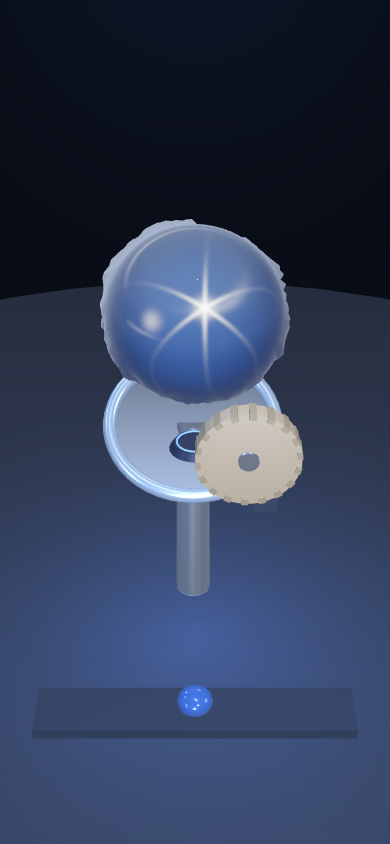
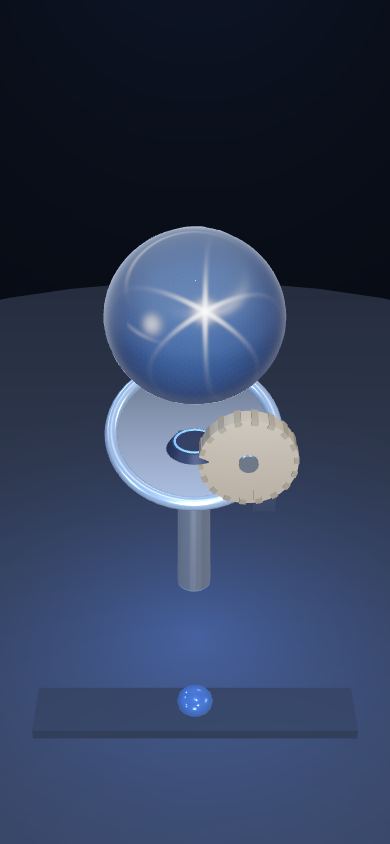
星を起こす v3.1: 原石期の光帯を「石の内部に沈んだ淡い帯」まで落とす
- 原石期の帯の輝度倍率 mix(2.2,1.0,form) → mix(1.4,1.0,form)
- 中心からの減衰 exp(-hl*2.6) → exp(-hl*3.4)（原石期）
  帯のピークは殻より明るいまま、帯の周りに殻の青と凸凹が残るようにした。
  align > 0.9 で六条の気配が出るのは維持。
- playtest: 窓開けの途中で偶然良い向きになっていた場合に備え、指で一度
  しっかり転がして向きを外してから探し直す。これで band-{1,2,3}.png が
  align 0.5 / 0.75 / 0.9 付近で確実に撮れる。

Claude-Session: https://claude.ai/code/session_01B3bfqVPKegmXqEE6uLVgzw

diff --git a/src/stoneMaterial.js b/src/stoneMaterial.js
@@ -219,7 +219,7 @@ void main(){
   }
   // 中心から離れるほど細く淡く（六条が「石の中で光る」ように減衰させる）
   // 原石期の帯は中心から遠くまで伸びる（＝一本の帯として石を横切る）
-  star *= exp(-hl * mix(2.6, 7.0, smoothness * form));
+  star *= exp(-hl * mix(3.4, 7.0, smoothness * form));
   star *= 0.55 + 0.75 * uSilkDensity;
   // 研磨前は弱まるが、帯としてはっきり見える強さは残す
   star *= mix(0.55, 1.0, clamp(smoothness + win * 0.75, 0.0, 1.0));
@@ -234,7 +234,7 @@ void main(){
              * smoothstep(0.05, 0.45, ndvS);
 
   vec3 starCol = mix(vec3(0.66, 0.80, 1.0), vec3(0.90, 0.95, 1.0), form);
-  col += starCol * star * uStarBoost * mix(2.2, 1.0, form);
+  col += starCol * star * uStarBoost * mix(1.4, 1.0, form);
   col += mix(starCol, vec3(1.0), 0.6) * core * uStarBoost * 0.55;
 
   // ---- 誘い（文字なしの導線） ----
